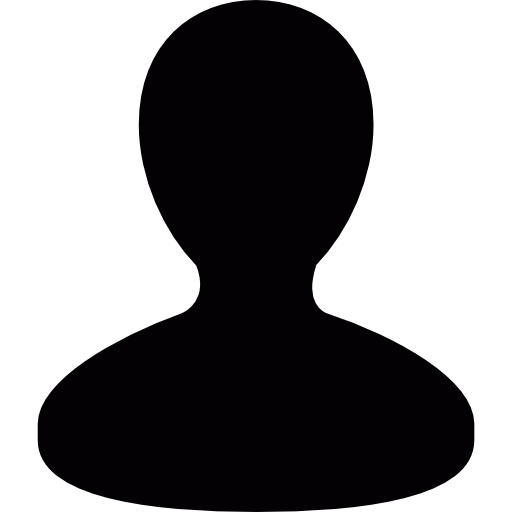
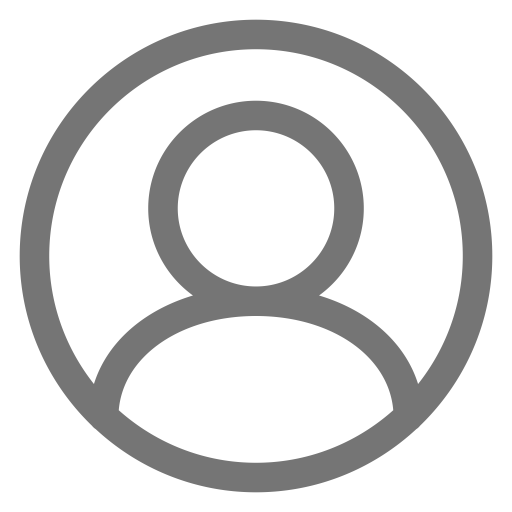
CRIADO PAGINA DE EDITAR PERFIL

diff --git a/style/style.css b/style/style.css
@@ -436,7 +436,6 @@ input:-webkit-autofill:active {
   width: 10em;  height: 2em;
   color: white;
   cursor: pointer;
-
 }
 
 .resetpasspage .entrybox{
@@ -502,6 +501,7 @@ input:-webkit-autofill:active {
 }
 
 .profilepage .showprofile {
+  font-family: 'Roboto', sans-serif;
   box-shadow: -1px 0px 38px 12px rgba(0,0,0,0.75);
   position:absolute;
   top:73px;
@@ -516,13 +516,14 @@ input:-webkit-autofill:active {
 .profilepage .showprofile .avatar{
   width: 184px;
   height: 184px;
-  border: 2px solid rgb(0, 255, 255);;
+  border: 2px solid rgba(174, 0, 255, 0.644);;
   position: absolute;
   left:50px;
   top: 50px;
 }
 
 .profilepage .showprofile .name {
+  font-family: 'Roboto', sans-serif;
   position: absolute;
   top: 50px;
   left: 270px;
@@ -531,6 +532,7 @@ input:-webkit-autofill:active {
 }
 
 .profilepage .showprofile .descricao {
+  font-family: 'Roboto', sans-serif;
   position: absolute;
   top: 130px;
   left: 270px;
@@ -548,7 +550,6 @@ input:-webkit-autofill:active {
   border: none;
   padding: 15px 32px;
   border-radius: 10px;
-
 }
 
 .profilepage .showprofile .editarperfil:hover{
@@ -556,4 +557,109 @@ input:-webkit-autofill:active {
   background-color: rgba(128, 2, 245, .3);
 }
 
+
 /* ESTILO DA PAGINA PERFIL FIM */
+
+.editprofilepage{
+  font-family: 'Roboto', sans-serif;
+  background-color: #1a1a1a;
+}
+
+.editprofilepage .editprofile{
+  box-shadow: -1px 0px 38px 12px rgba(0,0,0,0.75);
+  position:absolute;
+  top:73px;
+  bottom:0;
+  left:0;
+  right:0; 
+  margin: auto;
+  width: 70%;
+  background: linear-gradient(90deg, #6e627546 0%, #515ada3b 100%);
+}
+
+.editprofilepage .editprofile .avatarinput{
+  display: none;
+
+}
+
+.editprofilepage .editprofile .custom-file-upload {
+  width: 184px;
+  height: 184px;
+  border: 2px solid rgba(174, 0, 255, 0.644);;
+  position: absolute;
+  left:50px;
+  top: 50px;
+
+}
+
+.editprofilepage .editprofile .avatar{
+  width: 184px;
+  height: 184px;
+  position: absolute;
+  z-index: 1;
+}
+
+.editprofilepage .editprofile .lupe{
+  width: 100px;
+  height: 100px;
+  left: 46px;
+  top: 46px;
+  position: absolute;
+  display: none;
+  z-index: 2;
+}
+
+.editprofilepage .editprofile .custom-file-upload:hover .lupe {
+display: block;
+}
+
+.editprofilepage .editprofile .usernameinput {
+  font-family: 'Roboto', sans-serif;
+  color: white;
+  position: absolute;
+  top: 50px;
+  left: 270px;
+  background-color: transparent;
+  border: none;
+  font-size: 50px;
+  resize: none;
+  width: 300px;
+  height: 70px;
+}
+
+.editprofilepage .editprofile .usernameinput:focus,
+.editprofilepage .editprofile .descriptioninput:focus { 
+  font-family: 'Roboto', sans-serif;
+  color: white;
+}
+
+.editprofilepage .editprofile .descriptioninput {
+  font-family: 'Roboto', sans-serif;
+  position: absolute;
+  color: white;
+  top: 130px;
+  left: 270px;
+  font-size: 15px;
+  background-color: transparent;
+  border: none;
+  resize: none;
+  width: 300px;
+}
+
+.editprofilepage .editprofile .sendbtn{
+  position: absolute;
+  color: white;
+  font-size: 15px;
+  top: 50px;
+  right: 50px;
+  background-color: rgba(128, 2, 245, 0.1);
+  border: none;
+  padding: 15px 32px;
+  border-radius: 10px;
+
+}
+
+.editprofilepage .editprofile .sendbtn:hover{
+  box-shadow: 0px 0px 15px 1px rgba(0,0,0,0.75);
+  background-color: rgba(128, 2, 245, .3);
+}

diff --git a/editarperfil.php b/editarperfil.php
@@ -19,7 +19,10 @@ $db = new DB();
 $userdata = get_user_data_by_id($db, intval($_GET['id']));
 $avatar = $userdata['avatar_path'];
 $username = $userdata["nomeUsuario"];
-$descricao = $userdata["descricao"];
+if (!$userdata['descricao']){
+    $descricao = "Nada informado.";} else{
+    $descricao = $userdata["descricao"];
+}; 
 $id = $_GET['id'];
 
 $db = null;
@@ -38,10 +41,19 @@ session_start();?>
     <link rel="stylesheet" href="./style/style.css">
     <script src="js/jquery-3.6.0.min.js"></script>
 </head>
-<body class="profilepage">
+<body class="editprofilepage">
     <?php require 'navbar.php'?>
     <div class="editprofile">
-
+        <form enctype="multipart/form-data" action="updateprofile.php?id=<?php echo $id?>" class="editarperfilform" method="post">
+        <label class="custom-file-upload"> 
+            <img src="<?php echo $avatar?>" class="avatar">
+            <img src="./siteimages/lupe.png" class="lupe">
+            <input name="avatar" type="file" class="avatarinput" accept="image/*">
+        </label>
+        <textarea name="username" class="usernameinput" maxlength="10" placeholder="<?php echo $username?>"></textarea>
+        <textarea name="description" class="descriptioninput" rows="6" maxlength="200" placeholder="<?php echo $descricao?>"></textarea>
+        <button type="submit" class="sendbtn">CONFIRMAR</button>
+        </form>
     </div>
 </body>
 </html>

diff --git a/updateprofile.php b/updateprofile.php
@@ -1,0 +1,50 @@
+<?php
+require './db.php';
+
+session_start();
+
+$db = new DB();
+$id = $_GET['id'];
+$active_session = $_SESSION['userdata'];
+
+$serverdata = parse_ini_file("./conf/serverconf.ini");
+
+if ($id == $active_session['idPublico']){
+    if ($_FILES['avatar']){
+
+        $path = $serverdata['imagespath'];
+
+        $imagename = $_FILES['avatar']['name'];
+
+        $imagetype = $_FILES['avatar']['type'];
+
+        $imageerror = $_FILES['avatar']['error'];
+
+        $imagetemp = $_FILES['avatar']['tmp_name'];
+    
+        $imagePath = $path;
+    
+        if(is_uploaded_file($imagetemp)) {
+            if(move_uploaded_file($imagetemp, $imagePath . $imagename)) {
+                $sql = file_get_contents("./sql/updateavatar.sql");
+                $db->prepare($sql)->execute([$path . "$imagename" , $active_session['email']]);
+            }
+        }
+    };
+
+    if ($_POST['username']){
+        $sql = file_get_contents("./sql/updatename.sql");
+        $db->prepare($sql)->execute([$_POST['username'], $active_session['email']]);;
+    };
+
+    if ($_POST['description']){
+        $sql = file_get_contents("./sql/updatedescription.sql");
+        $db->prepare($sql)->execute([$_POST['description'], $active_session['email']]);
+    };
+};
+
+$db = null;
+
+
+
+die(header("Location: ./perfil.php?id=$id"));

diff --git a/perfil.php b/perfil.php
@@ -19,7 +19,10 @@ $db = new DB();
 $userdata = get_user_data_by_id($db, intval($_GET['id']));
 $avatar = $userdata['avatar_path'];
 $username = $userdata["nomeUsuario"];
-$descricao = $userdata["descricao"];
+if (!$userdata['descricao']){
+    $descricao = "Nada informado.";} else{
+    $descricao = $userdata["descricao"];
+}; 
 $id = $_GET['id'];
 
 
@@ -48,10 +51,9 @@ $db = null;
     <div class="showprofile">
         <img src="<?php echo $avatar?>" class="avatar"> 
         <p class="name"><?php echo $username?></p>
-         <?php if (!$descricao){?>
-            <p class="descricao"> Nada informado.</p>
-         <?php } if (isset($session) && $session['idPublico'] == $_GET['id']){?>
-         <button class="editarperfil" onclick='location.href="editarperfil.php?id=<?php echo $id?>"'>Editar perfil</button>
+        <p class="descricao"><?php echo $descricao?></p>
+        <?php if (isset($session) && $session['idPublico'] == $_GET['id']){?>
+            <button class="editarperfil" onclick='location.href="editarperfil.php?id=<?php echo $id?>"'>Editar perfil</button>
         <?php }?>
     </div>
 </body>

diff --git a/index.php b/index.php
@@ -15,7 +15,6 @@ require 'checksession.php'; ?>
     <script src="js/jquery-3.6.0.min.js"></script>
 </head>
 <body>
-    <?php require 'navbar.php';
-    var_dump($_SESSION)?>
+    <?php require 'navbar.php';?>
 </body>
 </html>
